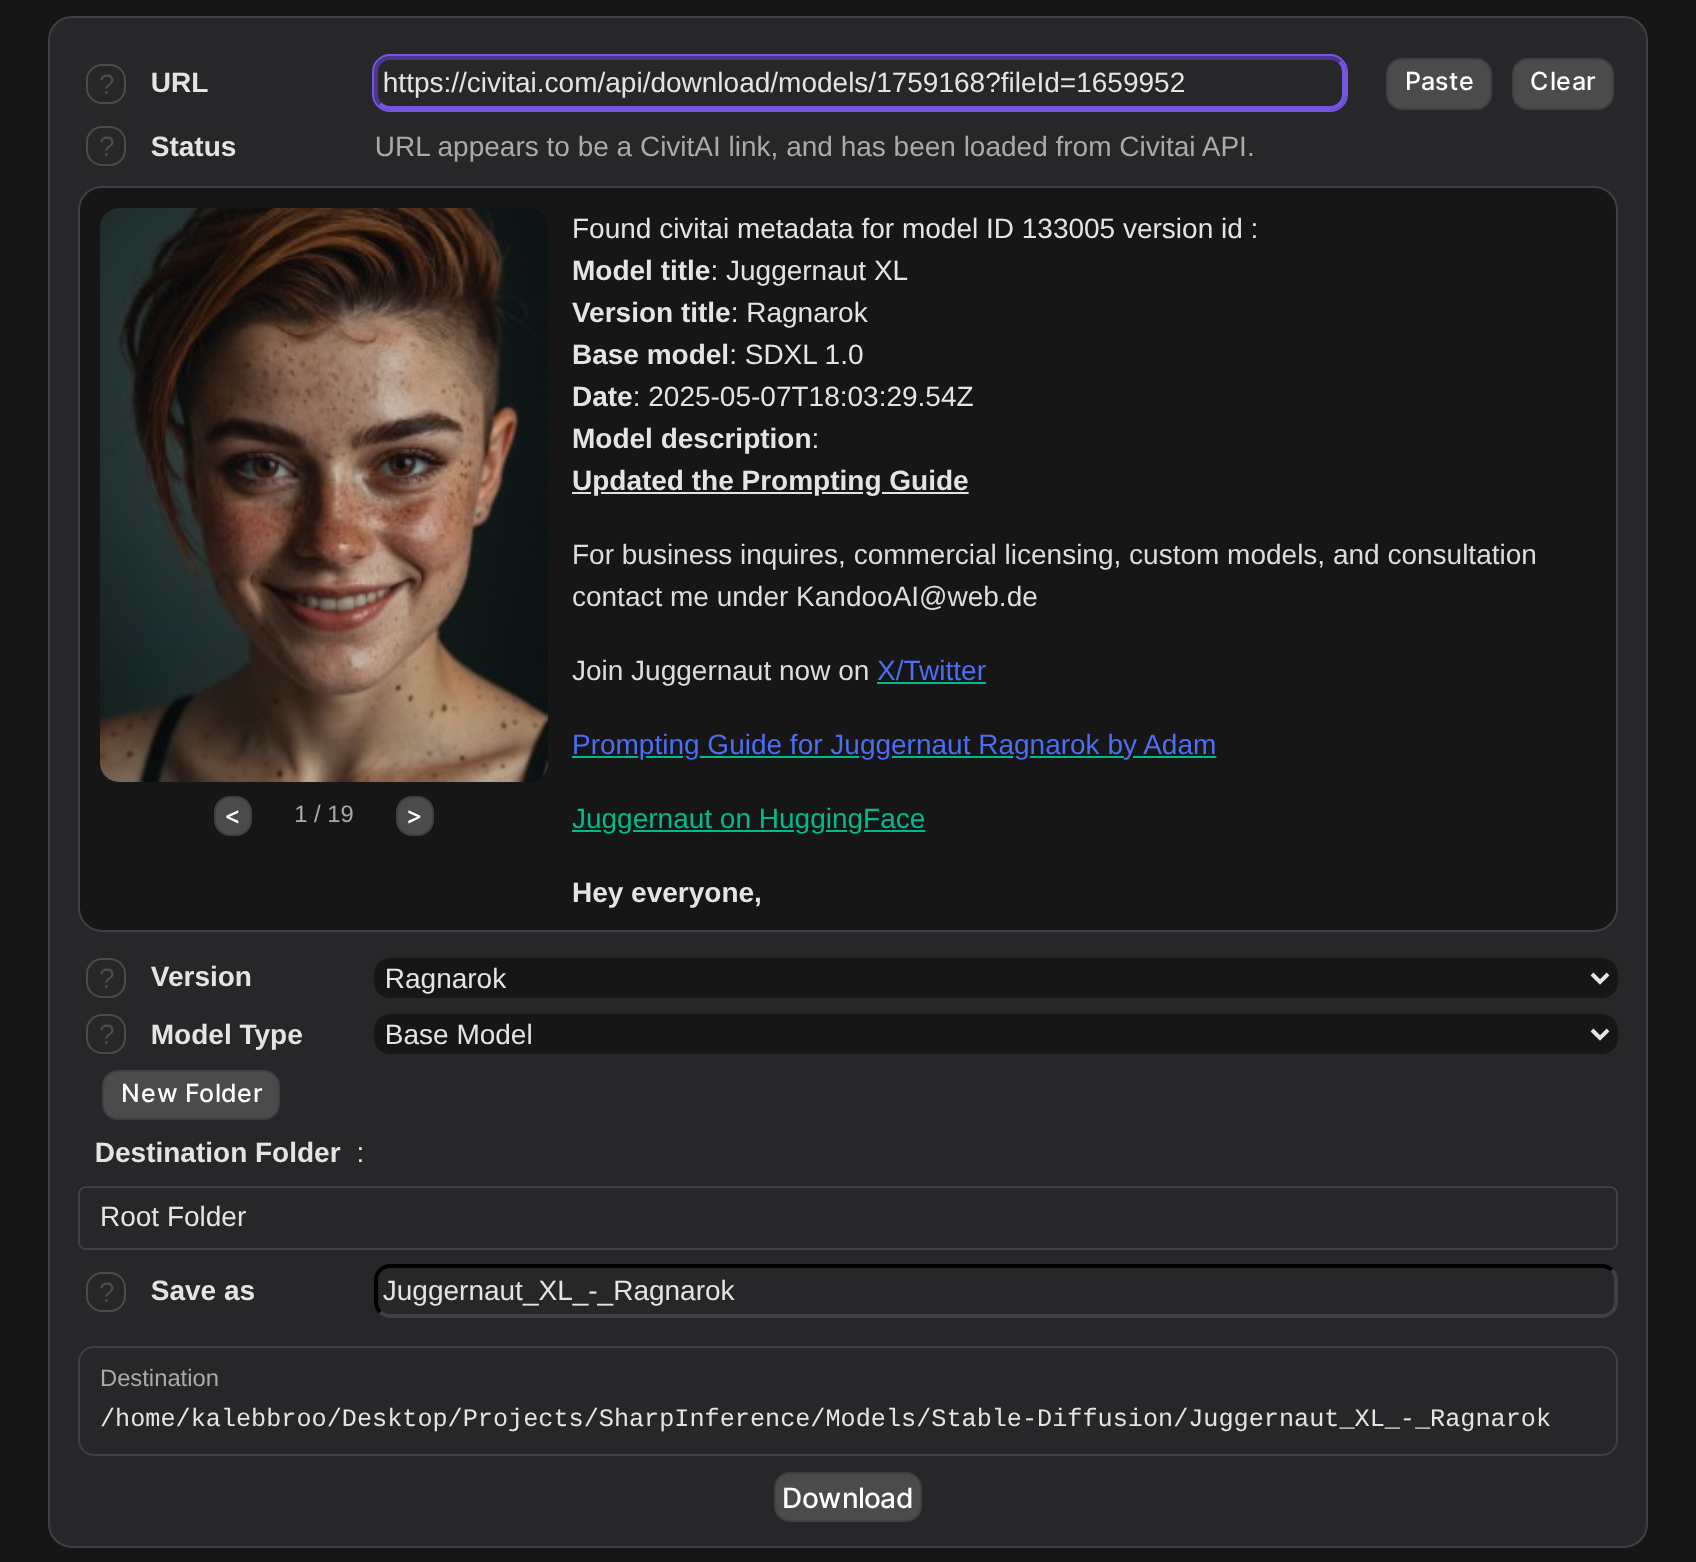
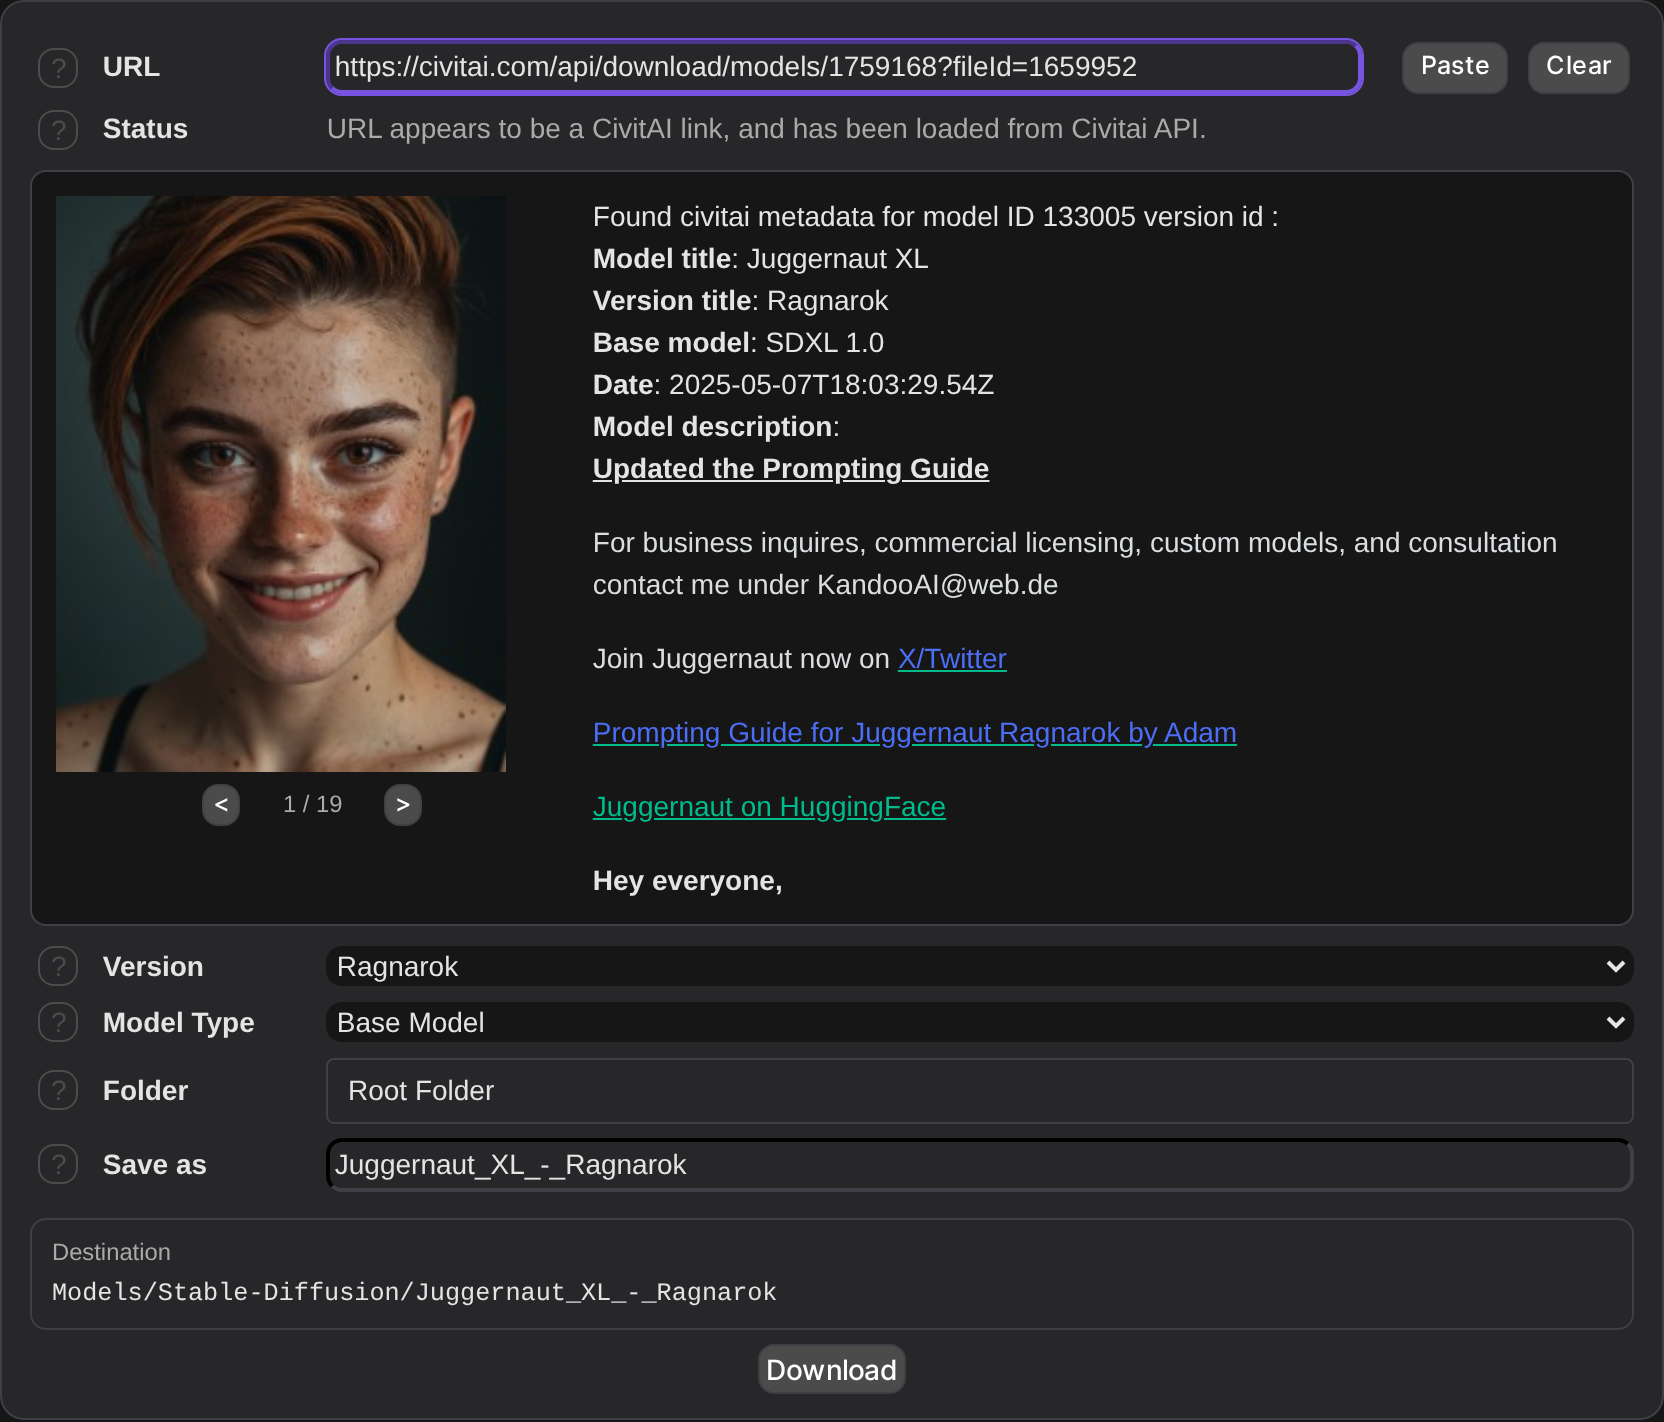
Update UI and screenshots

diff --git a/Assets/css/enhanced_downloader.css b/Assets/css/enhanced_downloader.css
@@ -223,45 +223,14 @@
     border-radius: 0.5rem;
 }
 
-#Utilities-ModelDownloader-Tab .enhanced-downloader-meta-split {
-    display: grid;
-    grid-template-columns: 14rem 1fr;
-    gap: 0.75rem;
-    margin: 0.6rem 0 0.75rem;
-    padding: 0.6rem;
-    border: 1px solid var(--light-border);
-    border-radius: 0.75rem;
-    background: var(--background);
+#Utilities-ModelDownloader-Tab .model-downloader-preview {
+    background-color: var(--background);
 }
 
-#Utilities-ModelDownloader-Tab .enhanced-downloader-meta-split #model_downloader_imageside {
-    display: block;
-    width: 100%;
-    min-height: 10rem;
-    border-radius: 0.6rem;
-    overflow: hidden;
-}
-
-#Utilities-ModelDownloader-Tab .enhanced-downloader-meta-split #model_downloader_imageside img {
-    width: 100%;
-    height: auto;
-    border-radius: 0.6rem;
-}
-
-#Utilities-ModelDownloader-Tab .enhanced-downloader-meta-split #model_downloader_metadatazone {
-    display: block;
-    width: 100%;
-    max-width: 100%;
-    min-width: 0;
-    box-sizing: border-box;
-    overflow: auto;
-}
-
-#Utilities-ModelDownloader-Tab .model-downloader-preview:has(.enhanced-downloader-meta-split) {
-    display: block;
-    padding: 0;
-    border: none;
-    background: none;
+@media (min-width: 769px) {
+    #Utilities-ModelDownloader-Tab .model-downloader-preview {
+        flex-direction: row-reverse;
+    }
 }
 
 #Utilities-ModelDownloader-Tab .model-downloader-field > .folder-browser-selected {
@@ -273,12 +242,6 @@
 #Utilities-ModelDownloader-Tab .model-downloader-field > .enhanced-downloader-destination,
 #Utilities-ModelDownloader-Tab .model-downloader-field > #model_downloader_folder_browser {
     flex-basis: 100%;
-}
-
-@media (max-width: 900px) {
-    #Utilities-ModelDownloader-Tab .enhanced-downloader-meta-split {
-        grid-template-columns: 1fr;
-    }
 }
 
 .enhanced-downloader-downloads-zone .ed-download-card .card {
@@ -385,6 +348,22 @@
 
 .enhanced-downloader-downloads-zone .ed-download-card .ed-download-actions .basic-button {
     flex: 1;
+}
+
+.enhanced-downloader-downloads-zone .ed-download-card .card:not(:has(.card-img-top)) {
+    grid-template-columns: 1fr;
+}
+
+.enhanced-downloader-downloads-zone .ed-download-card .card:not(:has(.card-img-top)) .ed-download-progress,
+.enhanced-downloader-downloads-zone .ed-download-card .card:not(:has(.card-img-top)) .ed-download-status,
+.enhanced-downloader-downloads-zone .ed-download-card .card:not(:has(.card-img-top)) .ed-download-actions {
+    grid-column: 1;
+    margin-left: 0.75rem;
+}
+
+.enhanced-downloader-downloads-zone .ed-download-card .card:not(:has(.card-img-top)) .ed-download-status {
+    padding-left: 0.75rem;
+    margin-left: 0;
 }
 
 @media (max-width: 900px) {

diff --git a/Assets/js/enhanced_downloader.js b/Assets/js/enhanced_downloader.js
@@ -439,7 +439,7 @@
             modelDownloader.type.dispatchEvent(new Event('change'));
         }
         modelDownloader.name.value = cleanName;
-        modelDownloader.name.dispatchEvent(new Event('input'));
+        modelDownloader.name.dispatchEvent(new Event('change'));
 
         if (downloadUrl) {
             modelDownloader.url.value = utils.appendExtensionHint ? utils.appendExtensionHint(downloadUrl, item.fileName) : downloadUrl;
@@ -447,6 +447,8 @@
             modelDownloader.urlStatusArea.innerText = `Showing a Hartsy model to get you started: ${title}. Paste your own URL over it any time.`;
         }
         else {
+            modelDownloader.url.style.borderColor = '';
+            modelDownloader.name.style.borderColor = '';
             modelDownloader.urlStatusArea.innerText = `Showing a Hartsy model to get you started: ${title}. Hartsy has not published a direct download link for this one yet, so paste a URL above to download something else.`;
         }
 
@@ -616,16 +618,6 @@
             if (mainInner) {
                 mainInner.classList.add('enhanced-downloader-manual-inner');
             }
-            const metaZone = document.getElementById('model_downloader_metadatazone');
-            const imgSide = document.getElementById('model_downloader_imageside');
-            if (metaZone && imgSide && !metaZone.closest('.enhanced-downloader-meta-split')) {
-                const split = document.createElement('div');
-                split.className = 'enhanced-downloader-meta-split';
-                metaZone.insertAdjacentElement('beforebegin', split);
-                split.appendChild(imgSide);
-                split.appendChild(metaZone);
-            }
-
             const leftInfo = document.createElement('div');
             leftInfo.className = 'enhanced-downloader-section-info ed-info-left';
             leftInfo.innerHTML = `

diff --git a/README.md b/README.md
@@ -5,7 +5,7 @@
 A full-featured model browser for [SwarmUI](https://github.com/mcmonkeyprojects/SwarmUI)'s **Utilities > Model Downloader** tab. Search, preview, and download models from **CivitAI**, **Hugging Face**, and **Hartsy** without leaving SwarmUI or hand-typing a URL.
 
 > [!NOTE]
-> This extension enhances SwarmUI's built-in Model Downloader. It does not replace it. The manual URL download workflow on the left is still core SwarmUI, just reorganized and given a few extra conveniences (a folder browser, a destination preview, 401 recovery). The model browser on the right is new.
+> This extension enhances SwarmUI's built-in Model Downloader. It does not replace it. The manual URL download workflow on the left is still core SwarmUI, just reorganized and given a few extra conveniences (a starter model on arrival, a folder browser, a destination preview, 401 recovery). The model browser on the right is new.
 
 ## Table of Contents
 
@@ -43,11 +43,12 @@ A full-featured model browser for [SwarmUI](https://github.com/mcmonkeyprojects/
 > [!NOTE]
 > The **Version** and **File** dropdowns that appear when you paste a CivitAI link are core SwarmUI's, as of its 2026-08-17 Model Downloader update, not this extension's. The extension leaves them alone, and clears them when you replace the loaded model with a Hartsy link.
 
-- **Folder browser**: a collapsible tree of your existing model folders, shown in place of core's flat Folder dropdown, in the same field row; create a subfolder inline without leaving the page
+- **A model to start from**: opening the tab loads a random Hartsy model into the downloader, with its preview image, architecture, author and file name filled in, so the panel is never a blank form. It only fills empty fields, so it never overwrites a URL you pasted
+- **Folder browser**: a collapsible tree of your existing model folders, shown in place of core's flat Folder dropdown and sitting in the same field row; expand and collapse branches, or create a subfolder with **+ New Folder** without leaving the page
 
   ![Folder browser widget](Assets/screenshots/folder_browser.png)
 
-- **Destination preview**: a live path showing exactly where the file will land, updating as you change type/folder/name
+- **Destination preview**: a live path showing exactly where the file will land, updating as you change type/folder/name. It is shown relative to your model root (`Models/Lora/MyModel`) rather than as an absolute path, so a shared instance does not print the server's filesystem layout to every user
 - **Clipboard paste button** for the URL field
 - **401 error recovery**: a failed download that looks like a gated/auth error gets a plain-language explanation and a direct link to User Settings to add the relevant API key, instead of a bare stack of numbers
 - **Resumable downloads**: download state is persisted server-side, so a SwarmUI restart mid-download leaves it paused (not lost); pause, resume, retry, and clear all work per-download from the Downloads list under the manual downloader
@@ -100,7 +101,15 @@ Open the **Recommended Models** panel, pick a variant from a model's dropdown, a
 
 ### Managing downloads
 
-Downloads appear in the **Downloads** list under the manual downloader as soon as you start one. Each shows live progress (bytes, percentage, speed where known). An in-progress download can be **Cancel**ed (the partial file is kept); a paused or errored one can be **Resume**d/**Retry**d from where it left off, or **Clear**ed to delete the partial file. Completed downloads can be dismissed, or left visible via the **Show completed** toggle.
+Downloads appear in the **Downloads** list under the manual downloader as soon as you start one. Each shows live progress: bytes transferred, percentage, and speed where the server reports a total size.
+
+![A download in progress](Assets/screenshots/download_in_progress.png)
+
+An in-progress download can be **Cancel**ed, which keeps the partial file so it can be resumed. A paused or errored one can be **Resume**d or **Retry**d from where it left off, or **Clear**ed to delete the partial file.
+
+![A finished download](Assets/screenshots/download_complete.png)
+
+Finished downloads turn green and can be **Dismiss**ed. They are hidden by default; tick **Show completed** to keep them in the list.
 
 ## Providers
 
@@ -288,7 +297,7 @@ The failure message will link straight to **User Settings**. Add the relevant pr
 
 1. Confirm the extension is enabled under `Server` > `Extensions`
 2. Restart SwarmUI after enabling it
-3. Hard-refresh (`Ctrl`+`Shift`+`R`)
+3. Reload the page. Note that a browser hard-refresh on its own is not enough after an extension JS/CSS change: SwarmUI reads those files once per launch and serves them from memory, so the server has to restart first
 4. Check the browser console for JS errors
 
 ### Missing preview images
@@ -302,6 +311,7 @@ Contributions welcome. Areas that would help most:
 - Wiring up the per-card extras popover (`model_popover.js`/`getPopoverExtras` exist but aren't currently attached to a visible trigger on the card)
 - A real download-history feature (`download_history.js` is currently a placeholder)
 - Surfacing recent destination folders in the folder tree (the last 12 are still recorded to `localStorage`, but nothing displays them since the folder tree replaced core's dropdown)
+- Making **+ New Folder** show the folder it just created in the tree (it selects correctly and the download lands in the right place, but `buildFolderBrowser()` re-renders from `coreModelMap`, so a folder with no models in it yet never appears)
 - Improved model metadata display
 - Better error messages and user guidance
 
